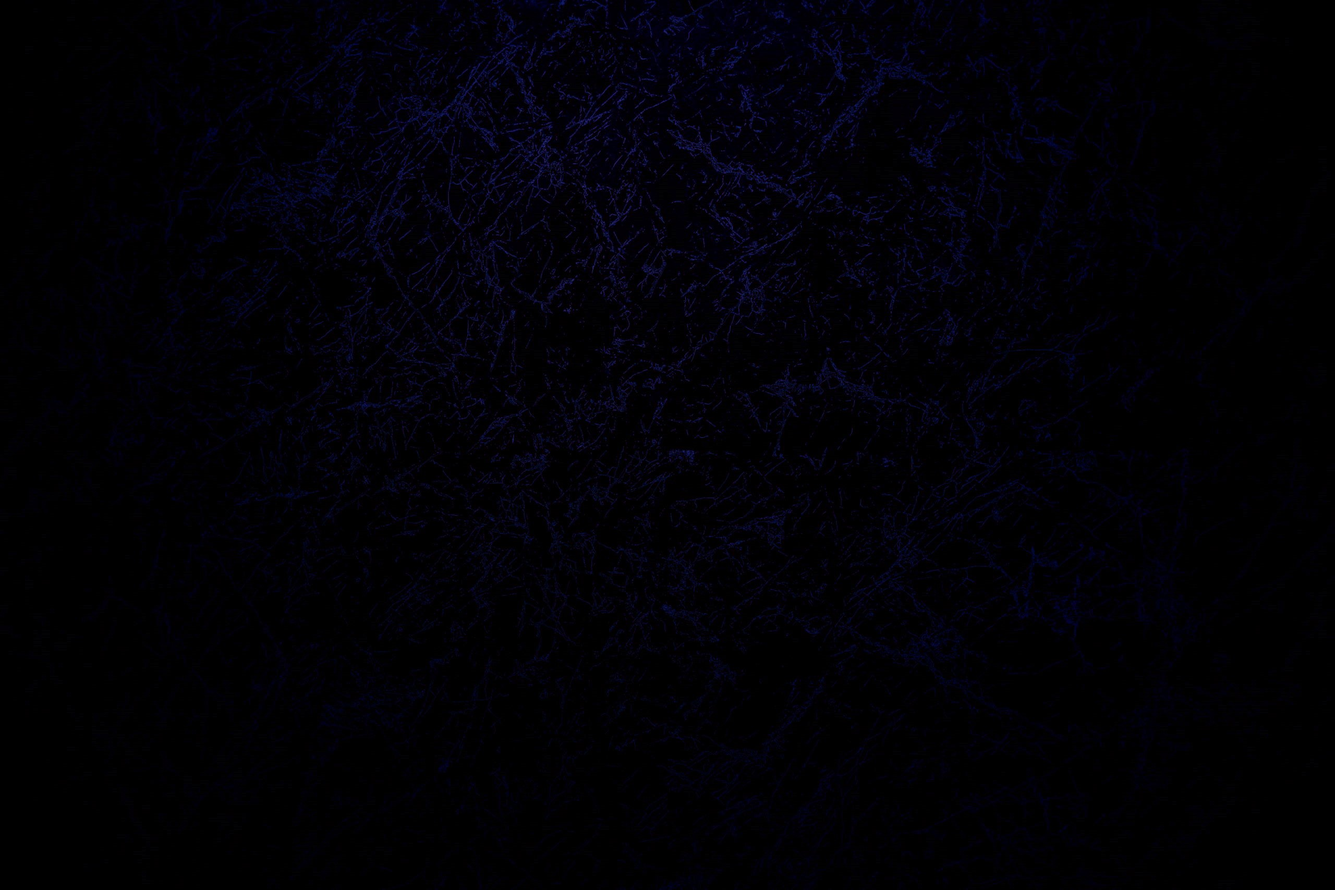
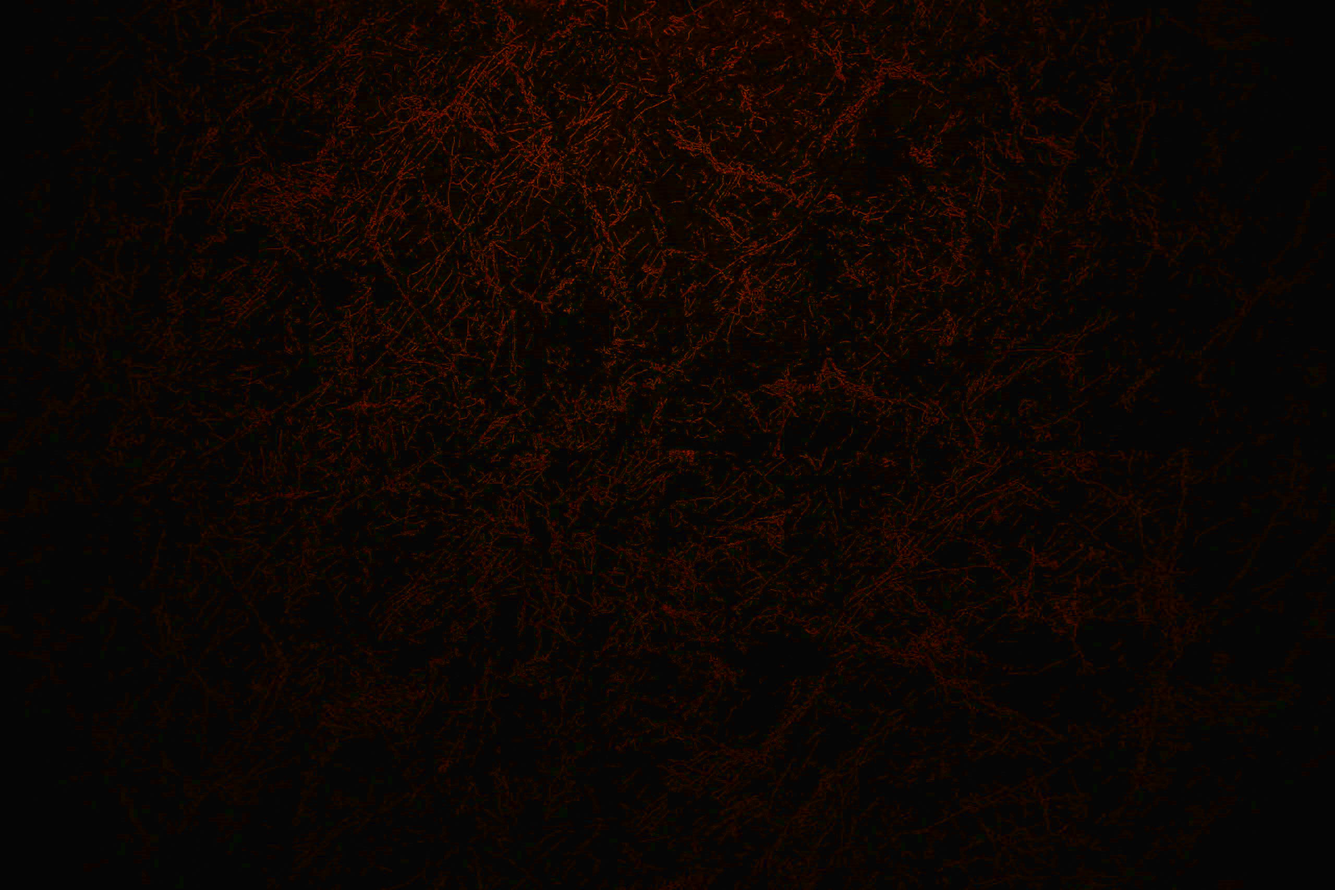
Бэкграунд и шрифты

diff --git a/src/css/custom.css b/src/css/custom.css
@@ -4,6 +4,9 @@
  * work well for content-centric websites.
  */
 
+@import url('https://fonts.googleapis.com/css2?family=Gabriela&display=swap');
+@import url('https://fonts.googleapis.com/css2?family=Jura&display=swap');
+
 /* You can override the default Infima variables here. */
 :root {
   --ifm-color-primary: #2e8555;
@@ -26,7 +29,15 @@
   --ifm-color-primary-light: #29d5b0;
   --ifm-color-primary-lighter: #32d8b4;
   --ifm-color-primary-lightest: #4fddbf;
+  --ifm-navbar-background-color: #000000;
   --docusaurus-highlighted-code-line-bg: rgba(0, 0, 0, 0.3);
+}
+
+html[data-theme='dark'] #__docusaurus {
+  background-image: url("../../static/img/background2.jpg") !important;
+  background-attachment: fixed;
+  background-color: transparent;
+  background-size: cover;
 }
 
 h1, h2, h3, h4, h5, h6, .text-break {
